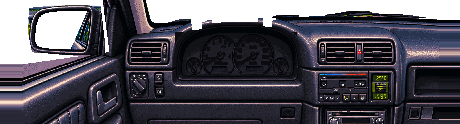
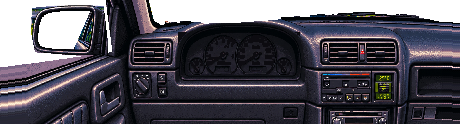
v0.81.4: cabine do Vetor GSi sem bordas esticadas (laterais construídas), borda do painel lisa e quadro alinhado
Claude-Session: https://claude.ai/code/session_01MLD9VR7gkmY4w6a9beZcp6

diff --git a/src/cockpit.ts b/src/cockpit.ts
@@ -1271,21 +1271,21 @@ queueMicrotask(() => faceImg(CS_FACE));
 // em barra com o disco escuro grande por cima; aceso em âmbar
 const VT_FACE = cp('br-vectra-cluster');
 const VTG = pumaGauges({
-  id: 'br-vectra', plate: [80, 35, 110, 41], face: VT_FACE, lit: cp('br-vectra-cluster-lit'), lamps: cp('br-vectra-lamps'),
-  lamp: { batt: [92.1, 71.6, 3.2], oil: [133.5, 71.6, 6.8] },
-  speed: [137, 57, 19.5], tach: [105.5, 57, 16.5],
+  id: 'br-vectra', plate: [83, 35, 110, 41], face: VT_FACE, lit: cp('br-vectra-cluster-lit'), lamps: cp('br-vectra-lamps'),
+  lamp: { batt: [95.1, 71.6, 3.2], oil: [136.5, 71.6, 6.8] },
+  speed: [140, 57, 19.5], tach: [108.5, 57, 16.5],
   speedA: (v) => 180 + (Math.min(246, v) - 20) * 0.877,
   tachA: (k) => 178 + 16.25 * clamp(k, -0.1, 8.2),
   smalls: [
-    [[170, 58, 8.5], () => 180 + (clamp(50 + ((gauges.water - 0.3) / 0.25) * 40, 46, 134) - 50) * (90 / 80)],
-    [[183.4, 58, 8.5], () => 186 + 66 * clamp(gauges.fuel, -0.03, 1.03)],
+    [[173, 58, 8.5], () => 180 + (clamp(50 + ((gauges.water - 0.3) / 0.25) * 40, 46, 134) - 50) * (90 / 80)],
+    [[186.4, 58, 8.5], () => 186 + 66 * clamp(gauges.fuel, -0.03, 1.03)],
   ],
   needles: ['#f4f4f0', '#ffb050'], rest: 0, maxKmh: 246, needleK: 0.74, smallK: 0.8, glow: '255,160,60', drumLit: '#ffbe70',
 });
 COCKPIT_ART['br-vectra'] = {
   dash: cp('br-vectra-dash'), top: cp('br-vectra-top'), wheel: cp('br-vectra-wheel'),
-  glass: { at: [60, 113], thr: 256 }, // retrovisor esquerdo (vidro transparente)
-  pivot: [128, 104], wheelTop: -19.14, wheelDx: 7, wheelDy: -10.51,
+  glass: { at: [62, 113], thr: 256 }, // retrovisor esquerdo (vidro transparente)
+  pivot: [128, 104], wheelTop: -19.14, wheelDx: 10, wheelDy: -10.51,
   radar: [205, 26],
   speedMax: 240, speedRest: 0, tachReal: true,
   needle: '#f4f4f0', needleW: 1.4, needleTail: 2.0, hub: '#2a2a30', hubR: 2.6,

diff --git a/tools/ref/vectra_cockpit.py b/tools/ref/vectra_cockpit.py
@@ -27,7 +27,7 @@ import brand_badges  # noqa: E402
 ID = 'br-vectra'
 S = 0.25   # a arte é mais aberta (volante e retrovisor maiores na imagem): escala menor que a dos outros
 PXW, PXH = 1 / S, (1 / S) / (8 / 7)
-PIV_X = 832.0   # retrovisor esquerdo dentro da tela de celular; volante 7 px à direita do centro
+PIV_X = 820.0   # retrovisor esquerdo inteiro na tela de celular; as bordas que a arte não cobre são construídas (edge_build)
 WHEEL_C = (860.0, 467.0)
 Y0D = 150.0
 PIV_N = (128.0, 104.0)
@@ -72,7 +72,12 @@ def dash_line(nw):
             if col[k:k + 7].sum() >= 6:
                 d[x] = 175 + k
                 break
-    return np.array([np.median(d[max(0, x - 20):x + 21]) for x in range(W)])
+    d = np.array([np.median(d[max(0, x - 20):x + 21]) for x in range(W)])
+    # linha lisa (a borda do painel é uma curva suave): polinômio de 3º grau à direita da coluna A
+    xs = np.arange(560, W)
+    cf = np.polyfit(xs, d[560:], 3)
+    d[560:] = np.polyval(cf, xs)
+    return d
 
 
 def glass_mask(nw):
@@ -92,14 +97,19 @@ def glass_mask(nw):
     mir = cv2.fillPoly(np.zeros((H, W), np.uint8), [hull], 1) > 0
     frame = house & ~mir & ~sc        # moldura do retrovisor fica
     # rente à linha do painel: o que ainda é cenário (pé da grade, mato, céu) também é vidro
-    band = (xx > WIND_X(yy)) & (yy >= dl[xx] - 2) & (yy < dl[xx] + 8)
+    band = (xx > WIND_X(yy)) & (yy >= dl[xx] - 2) & (yy < dl[xx] + 3)
     g = (wind | win | mir | (band & sc)) & ~frame
     g = cv2.morphologyEx(g.astype(np.uint8), cv2.MORPH_CLOSE, np.ones((3, 3), np.uint8)) > 0
     # postes da grade em pé sobre o painel (estreitos): saem numa abertura horizontal
-    near = (xx > WIND_X(yy) + 20) & (yy >= dl[xx] - 25) & (yy < dl[xx] + 14)
+    near = (xx > WIND_X(yy) + 20) & (yy >= dl[xx] - 25) & (yy < dl[xx] + 6)
     op = ~g & near
     wide = cv2.morphologyEx(op.astype(np.uint8), cv2.MORPH_OPEN, np.ones((1, 41), np.uint8)) > 0
     g |= op & ~wide
+    # limpador e friso finos deitados sobre o painel (menos de 9 linhas de altura): também saem
+    op = ~g & (xx > WIND_X(yy) + 20) & (yy >= dl[xx] - 25) & (yy < dl[xx] + 10)
+    tall = cv2.morphologyEx(op.astype(np.uint8), cv2.MORPH_OPEN, np.ones((9, 1), np.uint8)) > 0
+    tall |= (cv2.dilate(tall.astype(np.uint8), np.ones((3, 3), np.uint8)) > 0) & op & (yy >= dl[xx] + 4)
+    g |= op & ~tall & (yy < dl[xx] + 6)
     # ilhas opacas pequenas no vidro (folhas escuras, poste) somem
     n, lab, st, _ = cv2.connectedComponentsWithStats(((xx > WIND_X(yy)) & (yy < dl[xx]) & ~g).astype(np.uint8), connectivity=8)
     for i in range(1, n):

diff --git a/tools/ref/vectra_gauges.py b/tools/ref/vectra_gauges.py
@@ -24,13 +24,13 @@ sys.path.insert(0, os.path.dirname(os.path.abspath(__file__)))
 import onca_gte_gauges as G  # noqa: E402
 from PIL import Image, ImageDraw  # noqa: E402
 
-G.X0, G.Y0, G.X1, G.Y1 = 80.0, 35.0, 190.0, 76.0
+G.X0, G.Y0, G.X1, G.Y1 = 83.0, 35.0, 193.0, 76.0
 G.W, G.H = int(round((G.X1 - G.X0) * G.K)), int(round((G.Y1 - G.Y0) * G.K))
 G.KO = 8
-TACH = dict(x=105.5, y=57.0, R=16.5)
-SPEED = dict(x=137.0, y=57.0, R=19.5)
-TEMP = dict(x=170.0, y=58.0, R=8.5)
-FUEL = dict(x=183.4, y=58.0, R=8.5)
+TACH = dict(x=108.5, y=57.0, R=16.5)
+SPEED = dict(x=140.0, y=57.0, R=19.5)
+TEMP = dict(x=173.0, y=58.0, R=8.5)
+FUEL = dict(x=186.4, y=58.0, R=8.5)
 tach_a = lambda k: 178.0 + k * 16.25
 speed_a = lambda v: 180.0 + (v - 20) * 0.877
 temp_a = lambda t: 180.0 + (t - 50) * 90.0 / 80      # 50 °C frio (9h) a 130 °C quente (12h)
@@ -39,7 +39,7 @@ DAY = dict(G.DAY, face=(38, 40, 46), ink=(238, 238, 236), red=(220, 40, 30), ico
 LIT = dict(G.LIT, face=(16, 14, 14), ink=(255, 170, 72), dim=(220, 130, 50), red=(255, 70, 40), icon_off=(64, 44, 24), drum=(10, 9, 8), white=(150, 110, 60))
 BLUE = (60, 150, 230)
 ROW_Y = 71.6
-LAMP_X = [84.5, 88.3, 92.1, 95.9, 99.7, 103.5, 107.3, 115.0, 133.5, 147.0, 158.0, 165.5, 173.0, 180.5]
+LAMP_X = [87.5, 91.3, 95.1, 98.9, 102.7, 106.5, 110.3, 118.0, 136.5, 150.0, 161.0, 168.5, 176.0, 183.5]
 LAMPS = [('batt', 2), ('oil', 8)]  # índice em LAMP_X
 
 

diff --git a/CLAUDE.md b/CLAUDE.md
@@ -28,7 +28,7 @@
   com velocímetro digital turquesa (patrol_cockpit2.py, patrolCluster). Cadete GSi (Kadett GSi 2.0): exterior novo branco (tools/ref/kadett_sprites.py: "CHEVROLET" da tampa sai)
   e capas (kadett_photos.py: kd-revista, kd-praia, kd-duelo); cabine nova (kadett_cockpit.py: painel da arte sem volante,
   volante da com volante, vidros pelo magenta) com o quadro digital da foto do carro real (kadettCluster). Vetor GSi (Vectra GSi 2.0 16v): exterior novo branco com cenário (tools/ref/vectra_sprites.py) e capas
-  (vectra_photos.py: vt-estrada, vt-motor, vt-folheto); cabine nova (vectra_cockpit.py, escala 0,25: a arte é mais aberta)
+  (vectra_photos.py: vt-estrada, vt-motor, vt-folheto); cabine nova (vectra_cockpit.py, escala 0,25: a arte é mais aberta; depois rodar edge_build.py br-vectra R 17 0.05 e L 25 0.14)
   com o quadro da foto do carro real (vectra_gauges.py, pumaGauges). Os demais (ZR1, Uno) ficam como estão
   até a arte nova chegar, para não haver retrabalho: nada de retoques, retrovisores ou quadros neles.
   Na dúvida, perguntar.
